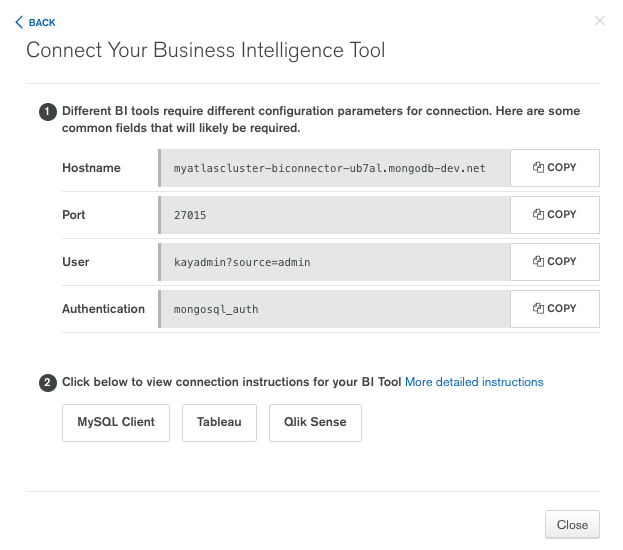
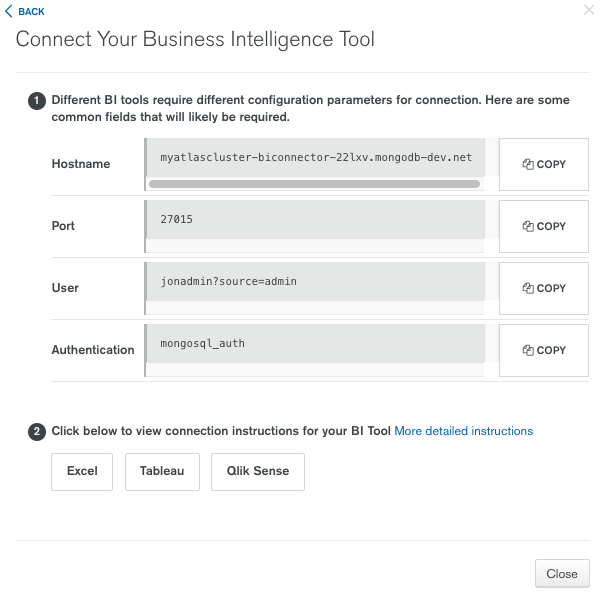
DOCSP-1579 - Updated screenshot and single sourced all the .. figure:: stuff.

diff --git a/source/images/bic-connection-dialog.rst b/source/images/bic-connection-dialog.rst
@@ -1,0 +1,4 @@
+.. figure:: /images/bic-connection-dialog.png
+  :alt: Screeenshot of the Atlas BI connection dialog.
+  :figwidth: 600px
+  :align: center
